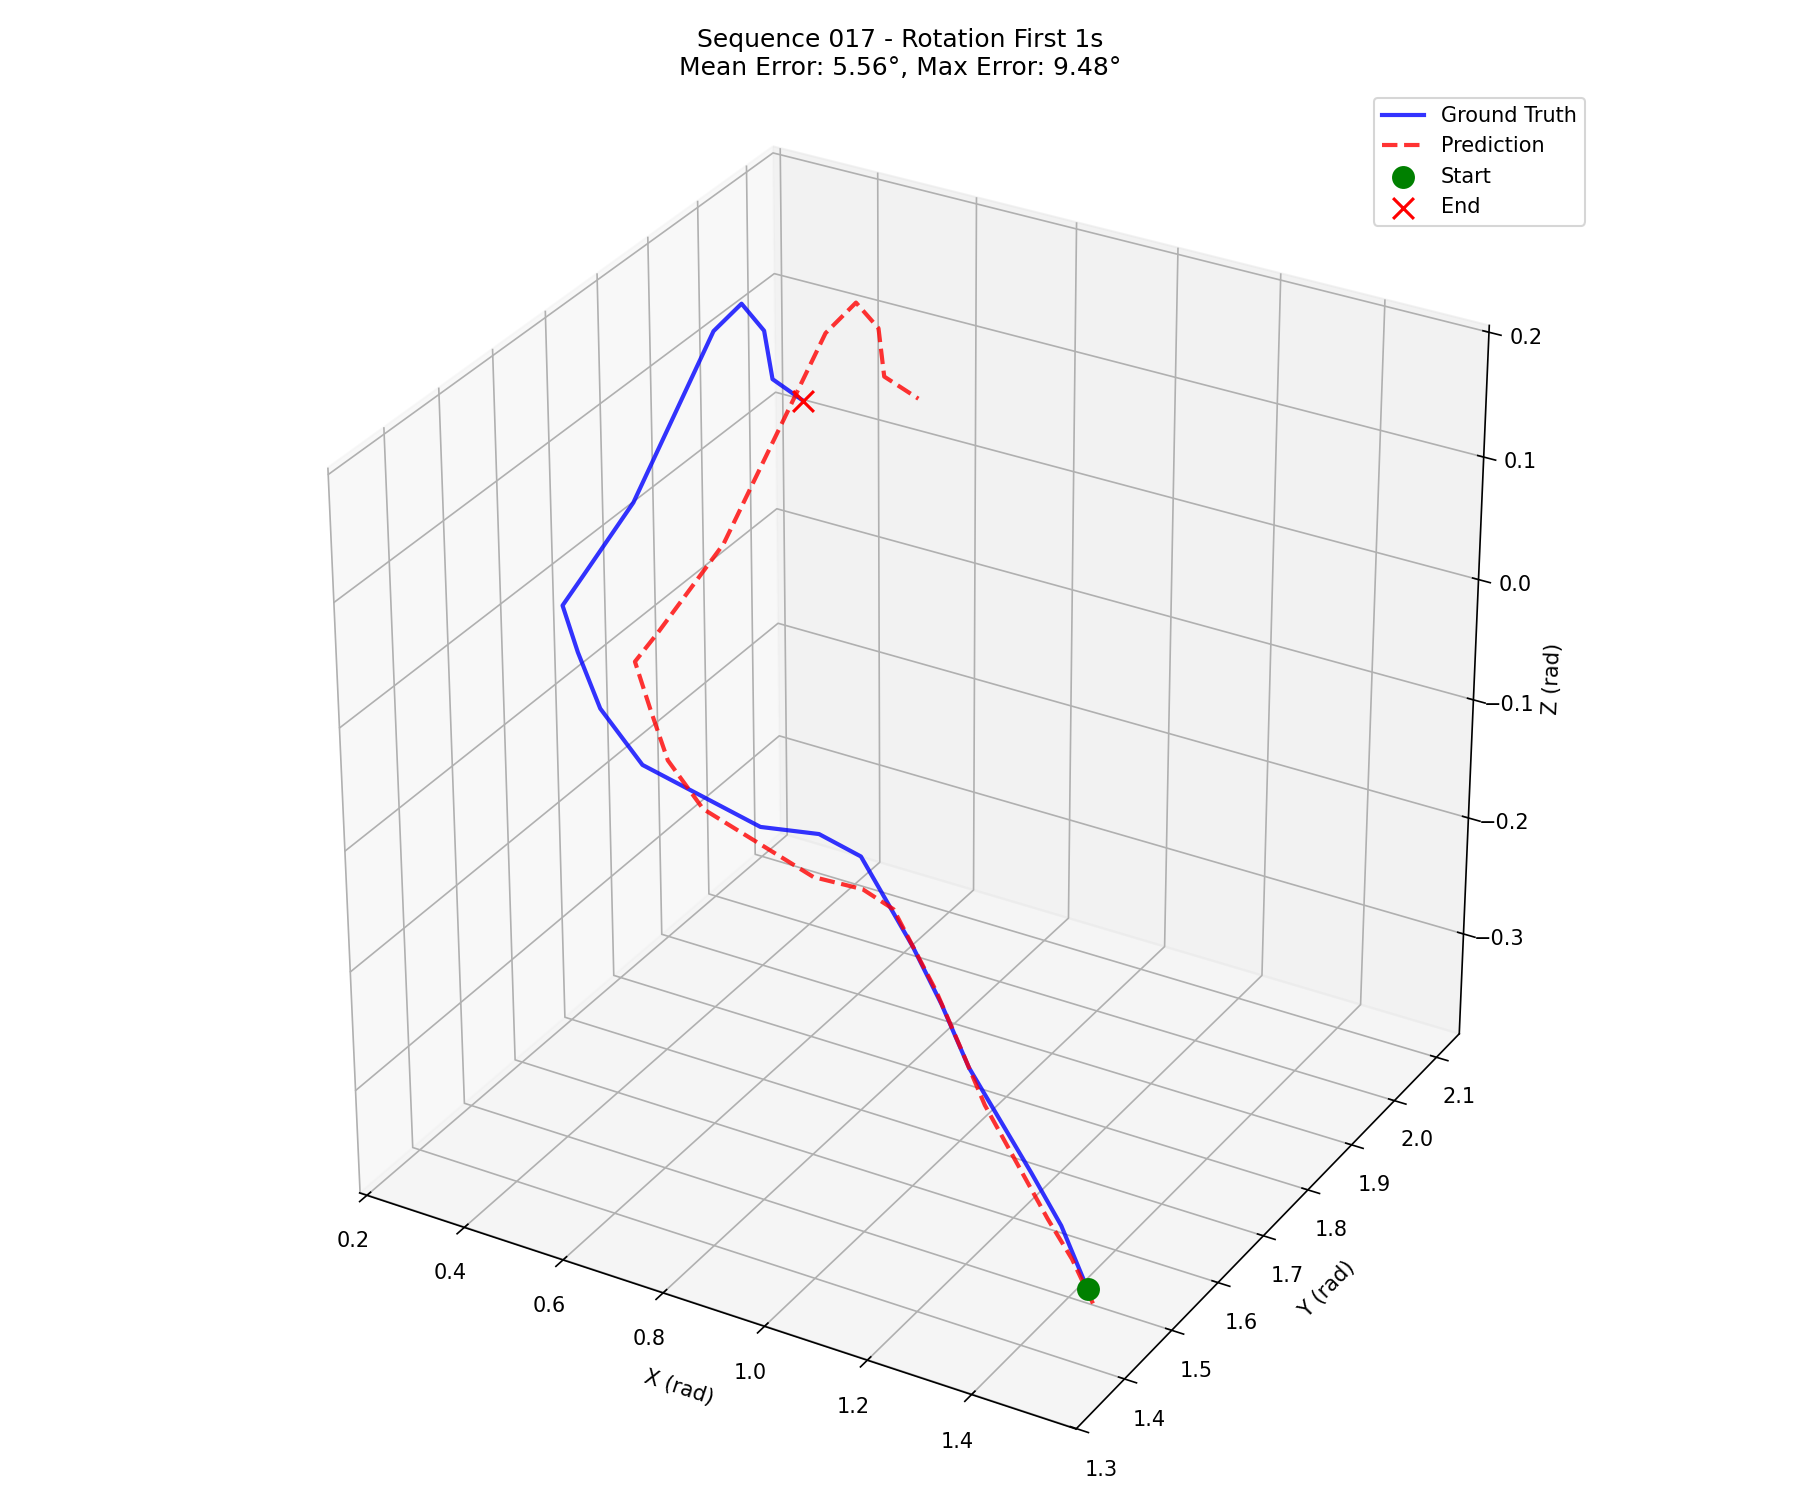
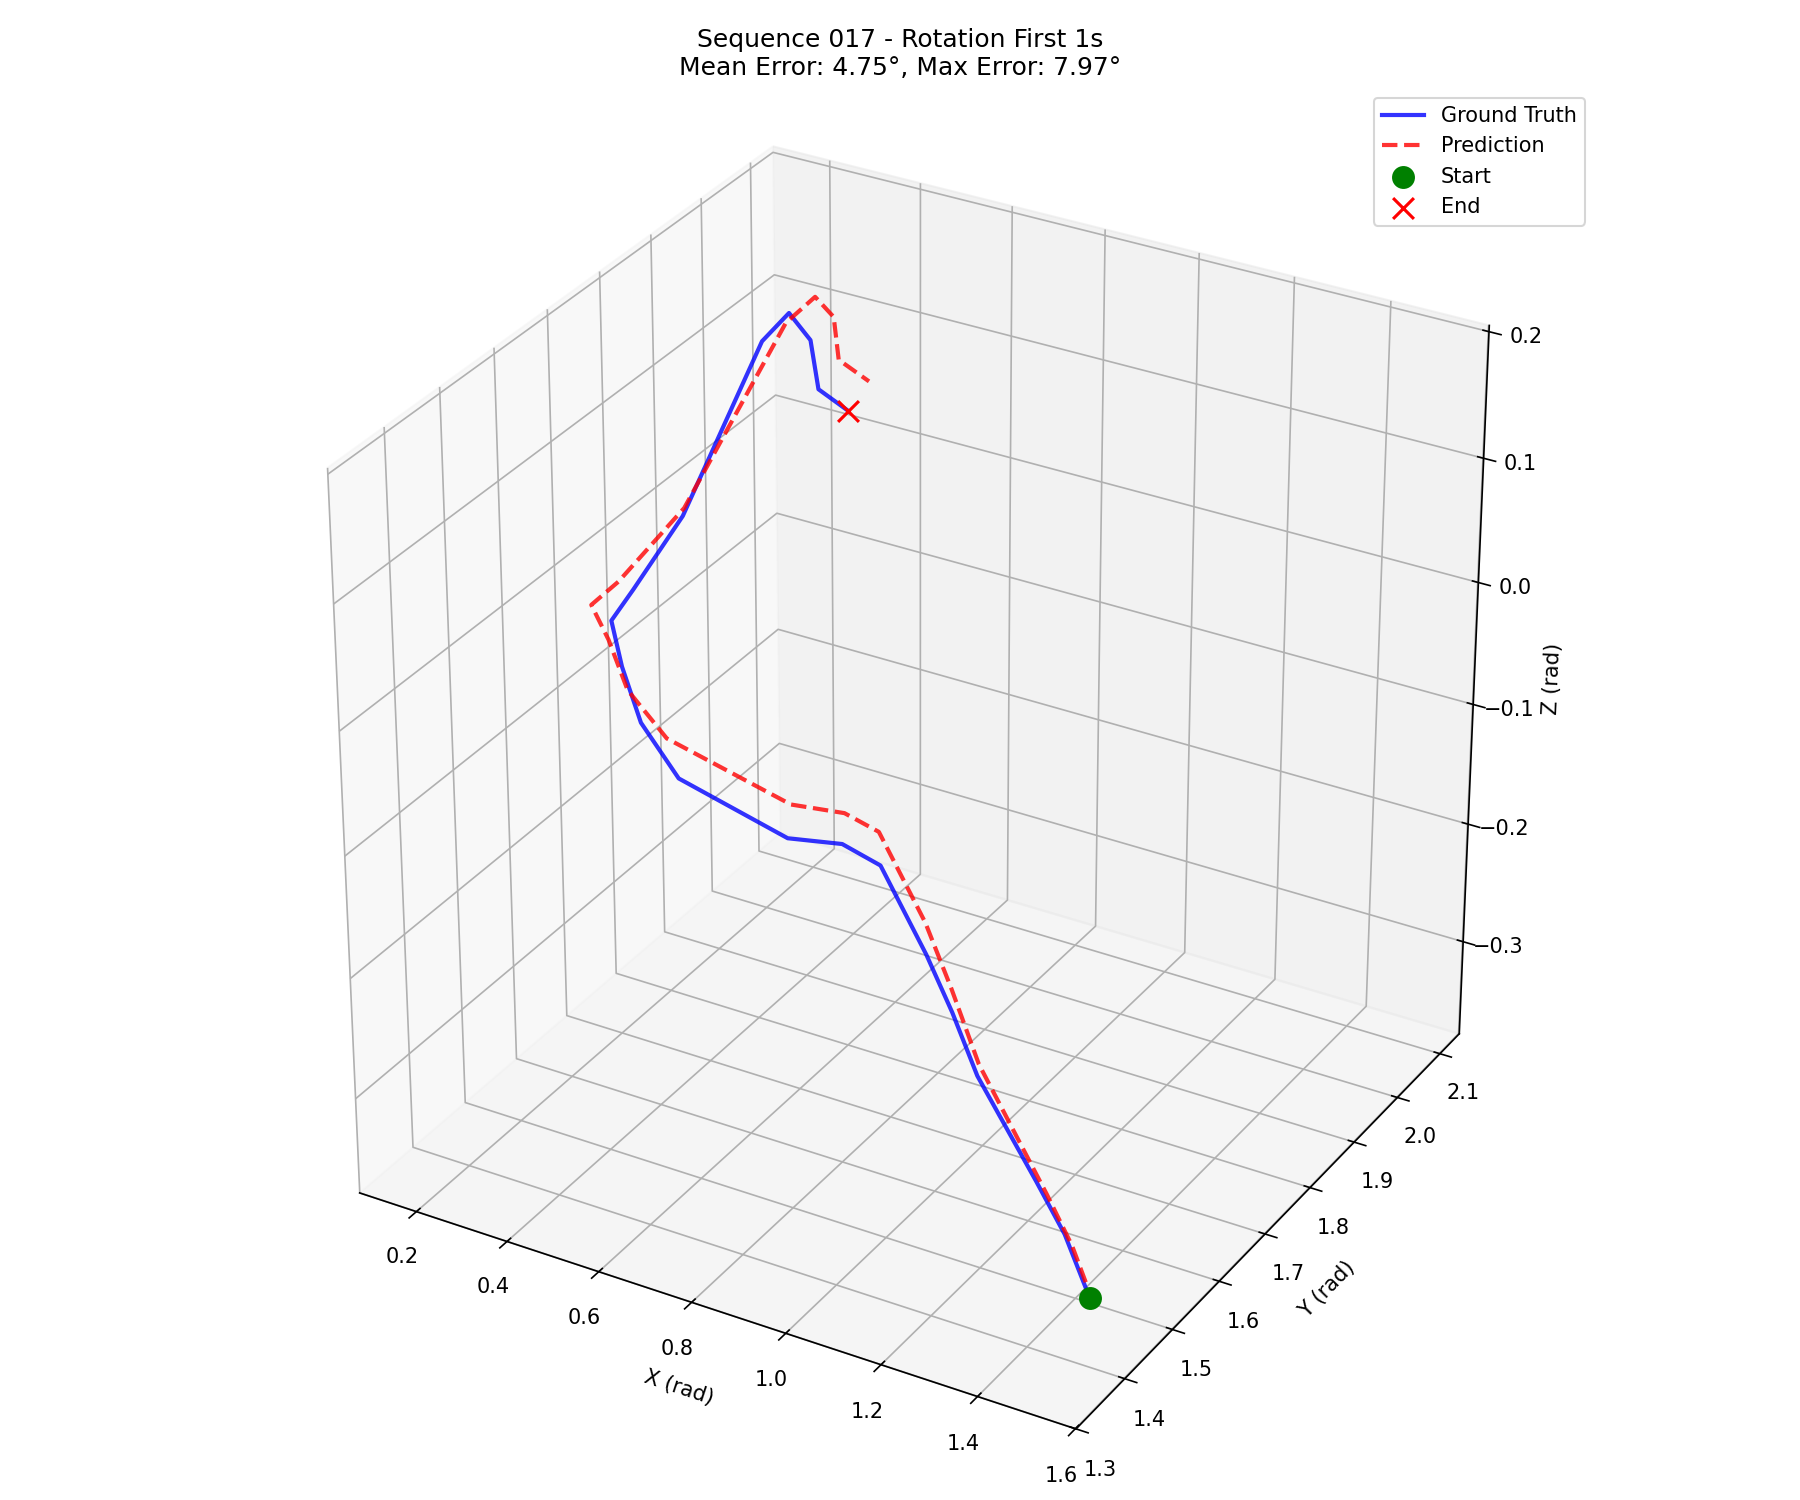
still bad translation trajectory

diff --git a/evaluate_from_scratch.py b/evaluate_from_scratch.py
@@ -91,8 +91,8 @@ def load_checkpoint(checkpoint_path, device):
     model.load_state_dict(new_state_dict)
     model.eval()
     
-    # Enable assertions in eval mode
-    torch.autograd.set_detect_anomaly(True)
+    # Disable anomaly detection for performance
+    # torch.autograd.set_detect_anomaly(True)
     
     print(f"\n📊 Model Information:")
     print(f"   Loaded checkpoint from epoch {checkpoint['epoch']}")
@@ -171,8 +171,10 @@ def integrate_trajectory(relative_poses, initial_pose=None):
         rel_rotation = R.from_quat(rel_quat)
         
         # Apply transformation
-        # rel_trans is already in world frame, so no rotation needed
-        current_position += rel_trans
+        # rel_trans is already in body frame from the dataset
+        # Convert to world frame before accumulating
+        world_trans = current_rotation.apply(rel_trans)
+        current_position += world_trans
         current_rotation = current_rotation * rel_rotation
         
         # Re-normalize quaternion to prevent numerical drift
@@ -296,10 +298,17 @@ def evaluate_model(model, test_loader, device, output_dir, test_sequences):
                 trans_errors = []
                 rot_errors = []
                 
+                # Track accumulated rotation for world frame conversion
+                # Start with identity since predictions are relative to first frame
+                accumulated_rotation = R.from_quat([0, 0, 0, 1])
+                
                 for j in range(20):
-                    # Translation error
+                    # Both pred and gt translations are in body frame - compare directly
                     trans_error = np.linalg.norm(pred_poses[j, :3] - gt_poses_sample[j, :3])
                     trans_errors.append(trans_error)
+                    
+                    # Update accumulated rotation for next step
+                    accumulated_rotation = accumulated_rotation * R.from_quat(gt_poses_sample[j, 3:])
                     
                     # Rotation error
                     pred_q = pred_poses[j, 3:]
@@ -410,6 +419,7 @@ def evaluate_model(model, test_loader, device, output_dir, test_sequences):
         for r in seq_results_sampled:
             start_idx = r['start_idx']
             # Each window covers 21 frames (20 transitions)
+            # Include all frames starting from start_idx
             frame_indices = list(range(start_idx, start_idx + 21))
             all_frame_indices.extend(frame_indices)
         
@@ -420,16 +430,31 @@ def evaluate_model(model, test_loader, device, output_dir, test_sequences):
         gt_positions_full = np.array([raw_poses[i]['translation'] for i in all_frame_indices])
         gt_quaternions = np.array([raw_poses[i]['quaternion'] for i in all_frame_indices])
         
-        # Concatenate predictions
-        all_pred = np.concatenate([r['pred_poses'] for r in seq_results_sampled], axis=0)
+        # Make ground truth quaternion stream sign-continuous
+        for k in range(1, len(gt_quaternions)):
+            if np.dot(gt_quaternions[k], gt_quaternions[k-1]) < 0:
+                gt_quaternions[k] *= -1
+        
+        # Build all_pred without double steps
+        all_pred = []
+        for n, r in enumerate(seq_results_sampled):
+            steps = r['pred_poses']
+            if n:                       # every window except the first
+                steps = steps[1:]       # drop duplicate step 0
+            all_pred.append(steps)
+        all_pred = np.concatenate(all_pred, axis=0)
         
         # Make quaternion stream sign-continuous to avoid 180° jumps
         for k in range(1, len(all_pred)):
             if np.dot(all_pred[k, 3:], all_pred[k-1, 3:]) < 0:
                 all_pred[k, 3:] *= -1
         
-        # Integrate predictions starting from first ground truth pose
-        initial_pose = np.concatenate([gt_positions_full[0], gt_quaternions[0]])
+        # Integrate predictions starting from the first frame
+        initial_frame_idx = all_frame_indices[0]
+        initial_pose = np.concatenate([
+            raw_poses[initial_frame_idx]['translation'],
+            raw_poses[initial_frame_idx]['quaternion']
+        ])
         pred_positions_full, pred_rotations_full = integrate_trajectory(all_pred, initial_pose)
         
         # For ground truth rotations, use the raw quaternions
